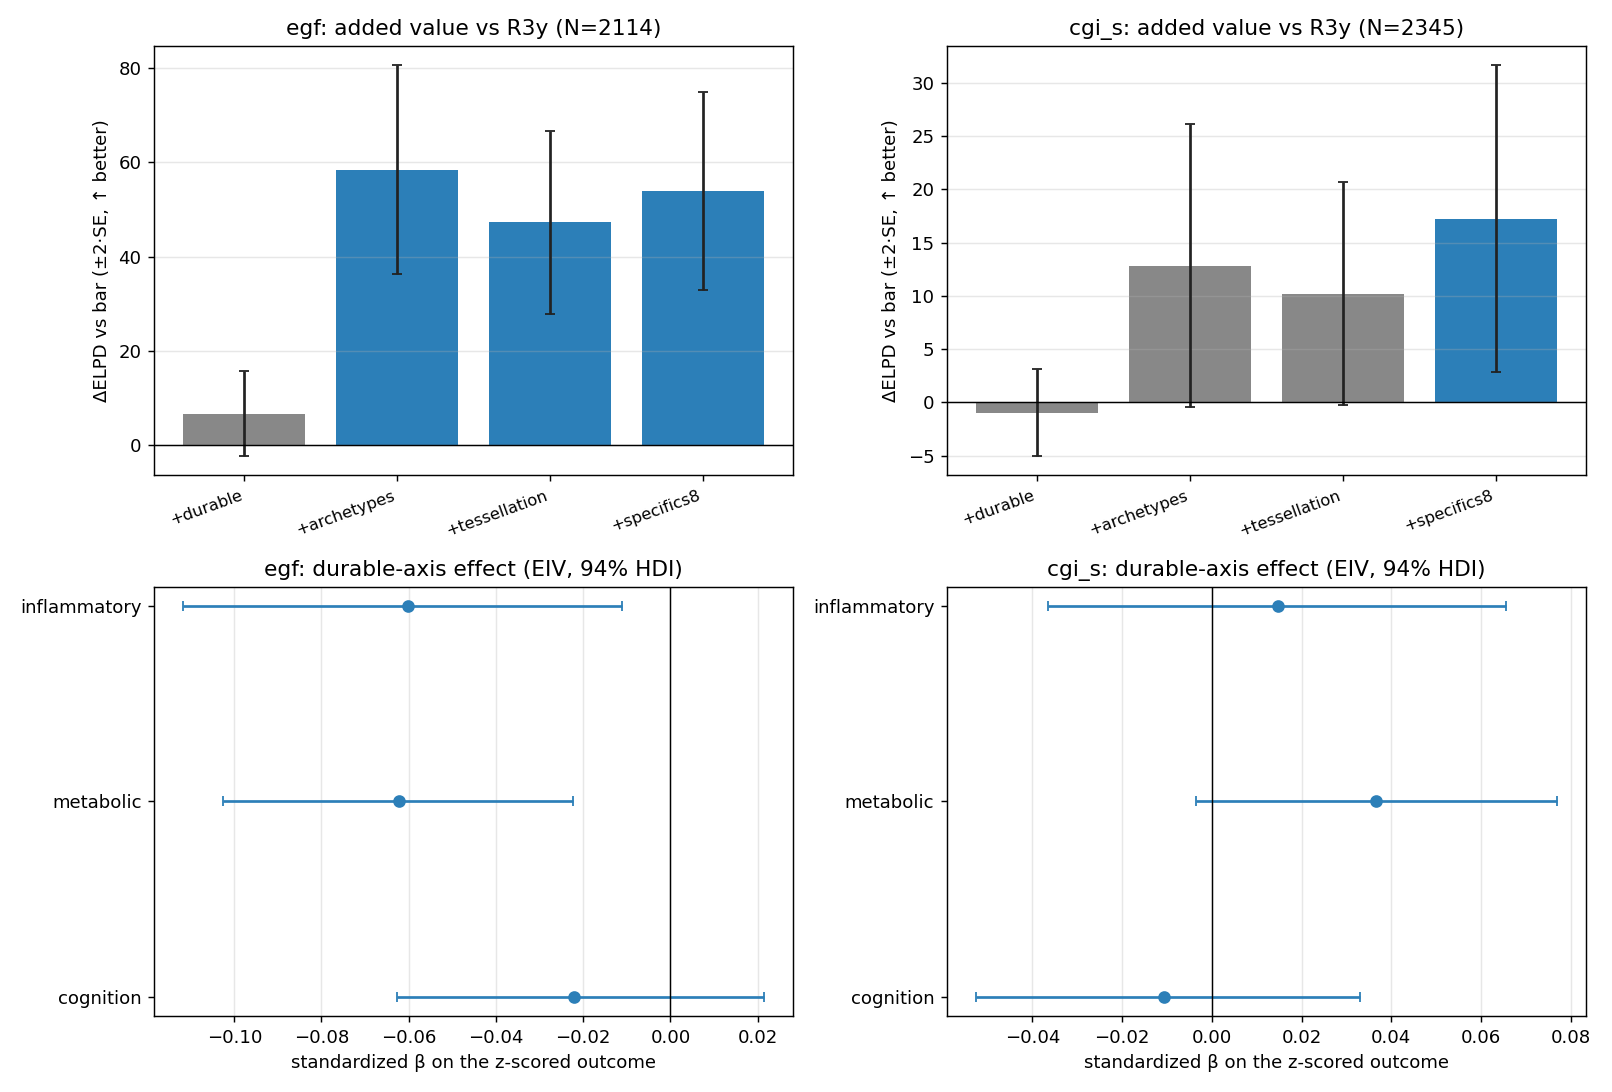
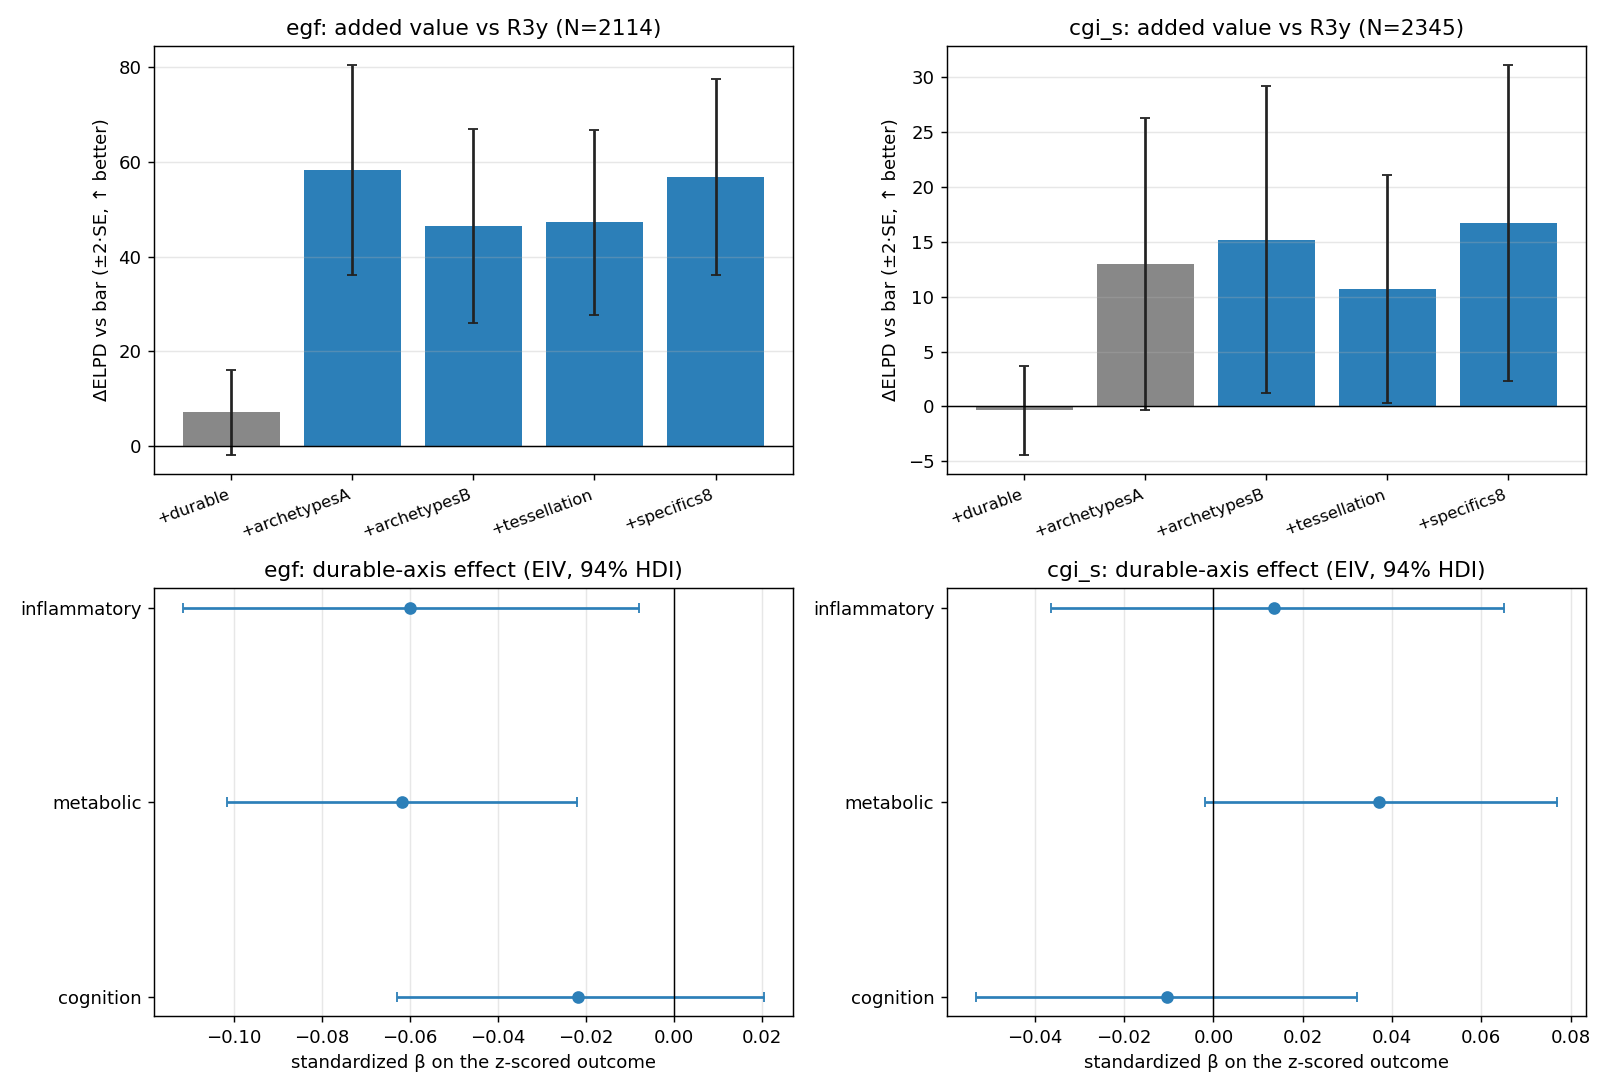
M4.3 refinement: Arm-B (G-residualized) archetypes + non-centered EIV
Resolves the two M4.3 caveats:
- armB_block (reference.py) projects each patient's 8-specific coordinates onto
  the fixed M2 Arm-B archetype profiles (reusing strata.archetypes.project_to_Z)
  -> the clean orthogonal-to-G strata representation, tested as +archetypesB.
- glm.py non-centres the EIV latent (xi = mu + tau*raw) to kill the high-K funnel.

Refined result (the strata signal is genuinely beyond severity):
- EGF: +archetypesB (G-residualized) +46 ELPD, predictive & converged
  (R-hat 1.01, Pareto-k 0.47) -- nearly all of Arm A's +58 (the ~12 gap is the
  extra severity info). So the transdiagnostic profile forecasts 2-yr functioning
  beyond diagnosis+severity+baseline, and it is NOT severity in disguise.
  Durable metabolic -0.062 survives both severities (Q2).
- CGI-S: linear durable coords add nothing (autoregression-saturated), but the
  multivariate profile adds a modest credible amount (+archetypesB +15).

+specifics8 stays under-converged for EGF (R-hat 1.17, Pareto-k>1) even
non-centred -- it is the redundant ceiling (archetypesB covers the same ⊥G
subspace reliably), flagged not interpreted. Updated docs/figures/43_*.png.

diff --git a/scripts/43_incremental.py b/scripts/43_incremental.py
@@ -39,16 +39,18 @@ from face.prognosis import DURABLE  # noqa: E402
 from face.prognosis.compare import delta_elpd  # noqa: E402
 from face.prognosis.frame import load_outcome_config  # noqa: E402
 from face.prognosis.glm import fit_glm  # noqa: E402
-from face.prognosis.reference import (ARCH_COLS, SPECIFICS, TESS_COLS, coord_eiv_block,  # noqa: E402
-                                      design_for_rung, fixed_block, modeling_frame,
+from face.prognosis.reference import (ARCH_COLS, SPECIFICS, TESS_COLS, armB_block,  # noqa: E402
+                                      coord_eiv_block, design_for_rung, fixed_block, modeling_frame,
                                       outcome_vector, severity_column, site_index)
 
 CONFIG = REPO / "configs" / "m4_outcomes.yaml"
 M4 = REPO / "results" / "face" / "m4"
+PROFILES = REPO / "results" / "face" / "m2" / "archetype_profiles.csv"
 REPORTS = REPO / "reports"
 FIGS = REPO / "docs" / "figures"
 CGI_BASELINE = "cgi_s__V0"
-MODELS = ("R3y", "+durable", "+archetypes", "+tessellation", "+specifics8")
+# +archetypesA = Arm A (full phenotype, includes G); +archetypesB = Arm B (G-residualized, the clean ⊥G strata)
+MODELS = ("R3y", "+durable", "+archetypesA", "+archetypesB", "+tessellation", "+specifics8")
 
 
 def _fit_all(sub, spec, *, sev_col, horizon, fit_kw):
@@ -58,14 +60,16 @@ def _fit_all(sub, spec, *, sev_col, horizon, fit_kw):
     Xr, _ = design_for_rung(sub, spec, "R3y", severity_col=sev_col, horizon=horizon)
     dob, dsd, _ = coord_eiv_block(sub, DURABLE)
     sob, ssd, _ = coord_eiv_block(sub, SPECIFICS)
-    arch, _ = fixed_block(sub, ARCH_COLS)
+    archA, _ = fixed_block(sub, ARCH_COLS)
+    archB, _ = armB_block(sub, profiles_path=PROFILES)
     tess, _ = fixed_block(sub, TESS_COLS)
     base = dict(family=fam, group=grp, n_groups=ng, n_cat=n_cat, **fit_kw)
     fits = {}
     for name, kw, X in [
         ("R3y", {}, Xr),
         ("+durable", dict(eiv_obs=dob, eiv_sd=dsd), Xr),
-        ("+archetypes", {}, np.column_stack([Xr, arch])),
+        ("+archetypesA", {}, np.column_stack([Xr, archA])),
+        ("+archetypesB", {}, np.column_stack([Xr, archB])),
         ("+tessellation", {}, np.column_stack([Xr, tess])),
         ("+specifics8", dict(eiv_obs=sob, eiv_sd=ssd), Xr),
     ]:
@@ -100,7 +104,7 @@ def main(smoke: bool = False) -> None:
     horizon = cfg.meta.get("primary_horizon", "V2")
     seed = int(cfg.meta.get("seed", 20260610))
     fit_kw = (dict(draws=150, tune=150, chains=2, seed=seed) if smoke
-              else dict(draws=800, tune=800, chains=4, seed=seed))
+              else dict(draws=800, tune=1000, chains=4, seed=seed, target_accept=0.95))
 
     frame = pd.read_parquet(M4 / "analysis_frame.parquet")
     comparisons, durable_coefs, calib = [], [], {}
@@ -237,9 +241,10 @@ def _report(cfg, comp, coef, horizon, smoke):
                    .reindex(list(DURABLE))[["mean", "eti_lo", "eti_hi", "p_direction"]].to_markdown(), ""]
     md += [
         "## Read", "",
-        "- **Representations compared**: continuous durable coords vs the 8 archetypes vs the 4-region "
-        "tessellation vs the 8-specifics ceiling — which carries predictive value, and whether the "
-        "deployable archetypes retain it.",
+        "- **Representations compared**: continuous durable coords · 8 archetypes **Arm A (full "
+        "phenotype, includes G)** vs **Arm B (G-residualized, ⊥G)** · 4-region tessellation · the "
+        "8-specifics ceiling. Arm A−Arm B gap = how much of the strata's added value is a richer "
+        "severity profile vs genuinely orthogonal-to-G structure.",
         "- **Q2**: a durable effect is only credited if its HDI excludes 0 under *both* the manifest "
         "CGI-S and the error-aware G severity (egf; for cgi_s the two coincide since CGI-S is the "
         "baseline outcome).",

diff --git a/src/face/prognosis/reference.py b/src/face/prognosis/reference.py
@@ -105,3 +105,17 @@ def fixed_block(sub: pd.DataFrame, cols):
     ([N, len(cols)] design, names)."""
     mat = np.column_stack([_z(sub, c) for c in cols])
     return mat, list(cols)
+
+
+def armB_block(sub: pd.DataFrame, *, profiles_path):
+    """Per-patient Arm-B (G-residualized) archetype weights: project each patient's 8-specific
+    coordinate means onto the FIXED M2 Arm-B archetype profiles (reusing the M2 simplex projection),
+    z-scored, drop-one-reference. The clean ⊥G strata representation. Returns ([N, A-1] design, names)."""
+    from face.strata.archetypes import project_to_Z
+
+    prof = pd.read_csv(profiles_path)
+    ZB = prof[prof["arm"] == "B_specifics"][list(SPECIFICS)].to_numpy("float64")     # [A, 8]
+    X = sub[[f"{ax}__mean" for ax in SPECIFICS]].to_numpy("float64")                  # [N, 8]
+    W = project_to_Z(X, ZB)[:, :-1]                                                   # [N, A-1] drop last
+    z = (W - W.mean(0)) / np.where(W.std(0) > 0, W.std(0), 1.0)
+    return z, [f"archB_w{k}" for k in range(W.shape[1])]

diff --git a/src/face/prognosis/glm.py b/src/face/prognosis/glm.py
@@ -64,7 +64,8 @@ def fit_glm(y, X, *, family: str = "gaussian", group=None, n_groups: int | None 
         if has_eiv:
             mu_x = numpyro.sample("mu_x", dist.Normal(0.0, 1.0).expand([K]))
             tau_x = numpyro.sample("tau_x", dist.HalfNormal(1.0).expand([K]))
-            xi = numpyro.sample("xi", dist.Normal(mu_x, tau_x).expand([N, K]).to_event(1))
+            xi_raw = numpyro.sample("xi_raw", dist.Normal(0.0, 1.0).expand([N, K]).to_event(1))
+            xi = mu_x + tau_x * xi_raw                     # non-centered — avoids the EIV funnel (high-K)
             numpyro.sample("z", dist.Normal(xi, jnp.asarray(eiv_sd)).to_event(1), obs=jnp.asarray(eiv_obs))
             b_eiv = numpyro.sample("beta_eiv", dist.Normal(0.0, 1.0).expand([K]))
             eta = eta + xi @ b_eiv

diff --git a/reports/43_incremental.md b/reports/43_incremental.md
@@ -7,47 +7,49 @@ Each map representation added on top of the R3y bar; **ΔELPD vs R3y** is the he
 
 | model         |   elpd_loo |   d_elpd_vs_ref |   se_d_elpd | verdict    |   max_pareto_k |   rhat |
 |:--------------|-----------:|----------------:|------------:|:-----------|---------------:|-------:|
-| +durable      |   -2559.95 |            6.73 |        4.48 | ambiguous  |           0.5  |   1.01 |
-| +archetypes   |   -2508.32 |           58.36 |       11.06 | predictive |           0.41 |   1.01 |
-| +tessellation |   -2519.46 |           47.23 |        9.71 | predictive |           0.4  |   1.01 |
-| +specifics8   |   -2512.84 |           53.84 |       10.47 | predictive |           0.99 |   1.17 |
+| +durable      |   -2559.61 |            7.1  |        4.45 | ambiguous  |           0.57 |   1    |
+| +archetypesA  |   -2508.48 |           58.22 |       11.06 | predictive |           0.51 |   1.01 |
+| +archetypesB  |   -2520.27 |           46.44 |       10.27 | predictive |           0.47 |   1.01 |
+| +tessellation |   -2519.52 |           47.19 |        9.74 | predictive |           0.47 |   1    |
+| +specifics8   |   -2509.87 |           56.84 |       10.36 | predictive |           1.01 |   1.17 |
 
 Durable-axis effects (standardized β on the z-scored outcome; EIV, 94% HDI):
 
-| axis         |       mean |    eti_lo |     eti_hi |   p_direction |
-|:-------------|-----------:|----------:|-----------:|--------------:|
-| cognition    | -0.0221474 | -0.06279  |  0.0214441 |     0.16      |
-| metabolic    | -0.0621253 | -0.102671 | -0.0224146 |     0.0021875 |
-| inflammatory | -0.0600885 | -0.111743 | -0.0110207 |     0.00875   |
+| axis         |       mean |     eti_lo |      eti_hi |   p_direction |
+|:-------------|-----------:|-----------:|------------:|--------------:|
+| cognition    | -0.0217316 | -0.0630405 |  0.0204885  |     0.160625  |
+| metabolic    | -0.0618859 | -0.101602  | -0.0220119  |     0.000625  |
+| inflammatory | -0.0599875 | -0.111582  | -0.00793849 |     0.0134375 |
 
 Q2 — same axes under the **error-aware G** severity (must survive both):
 
 | axis         |       mean |     eti_lo |     eti_hi |   p_direction |
 |:-------------|-----------:|-----------:|-----------:|--------------:|
-| cognition    | -0.0222691 | -0.0628624 |  0.018211  |      0.140313 |
-| metabolic    | -0.054566  | -0.0950406 | -0.0153099 |      0.004375 |
-| inflammatory | -0.035008  | -0.0854889 |  0.0126297 |      0.091875 |
+| cognition    | -0.0225595 | -0.0608886 |  0.0164196 |     0.12875   |
+| metabolic    | -0.0541756 | -0.0924973 | -0.0155374 |     0.0028125 |
+| inflammatory | -0.0364547 | -0.0855003 |  0.0110841 |     0.079375  |
 
 ## cgi_s  (N = 2345)
 
 | model         |   elpd_loo |   d_elpd_vs_ref |   se_d_elpd | verdict    |   max_pareto_k |   rhat |
 |:--------------|-----------:|----------------:|------------:|:-----------|---------------:|-------:|
-| +durable      |   -3023.48 |           -0.96 |        2.04 | ambiguous  |           0.41 |   1    |
-| +archetypes   |   -3009.69 |           12.83 |        6.65 | ambiguous  |           0.33 |   1    |
-| +tessellation |   -3012.3  |           10.22 |        5.23 | ambiguous  |           0.3  |   1    |
-| +specifics8   |   -3005.26 |           17.26 |        7.19 | predictive |           0.85 |   1.12 |
+| +durable      |   -3023.1  |           -0.34 |        2.03 | ambiguous  |           0.4  |   1    |
+| +archetypesA  |   -3009.79 |           12.98 |        6.65 | ambiguous  |           0.36 |   1    |
+| +archetypesB  |   -3007.58 |           15.18 |        6.99 | predictive |           0.39 |   1.01 |
+| +tessellation |   -3012.08 |           10.69 |        5.2  | predictive |           0.34 |   1    |
+| +specifics8   |   -3006.09 |           16.68 |        7.2  | predictive |           1.17 |   1.03 |
 
 Durable-axis effects (standardized β on the z-scored outcome; EIV, 94% HDI):
 
 | axis         |       mean |      eti_lo |    eti_hi |   p_direction |
 |:-------------|-----------:|------------:|----------:|--------------:|
-| cognition    | -0.0106299 | -0.0525611  | 0.033048  |      0.321875 |
-| metabolic    |  0.0366884 | -0.00346501 | 0.0769195 |      0.957187 |
-| inflammatory |  0.0147841 | -0.0365108  | 0.0656091 |      0.710938 |
+| cognition    | -0.0104823 | -0.0531543  | 0.0321809 |      0.31     |
+| metabolic    |  0.0370666 | -0.00195457 | 0.0769096 |      0.960938 |
+| inflammatory |  0.0135686 | -0.0363103  | 0.0651393 |      0.68375  |
 
 ## Read
 
-- **Representations compared**: continuous durable coords vs the 8 archetypes vs the 4-region tessellation vs the 8-specifics ceiling — which carries predictive value, and whether the deployable archetypes retain it.
+- **Representations compared**: continuous durable coords · 8 archetypes **Arm A (full phenotype, includes G)** vs **Arm B (G-residualized, ⊥G)** · 4-region tessellation · the 8-specifics ceiling. Arm A−Arm B gap = how much of the strata's added value is a richer severity profile vs genuinely orthogonal-to-G structure.
 - **Q2**: a durable effect is only credited if its HDI excludes 0 under *both* the manifest CGI-S and the error-aware G severity (egf; for cgi_s the two coincide since CGI-S is the baseline outcome).
 - Held-out ΔELPD is the honest performance metric; the calibration scatter (in-sample R²) and the added-value bars are in `docs/figures/43_{added_value,calibration}.png`.
 
